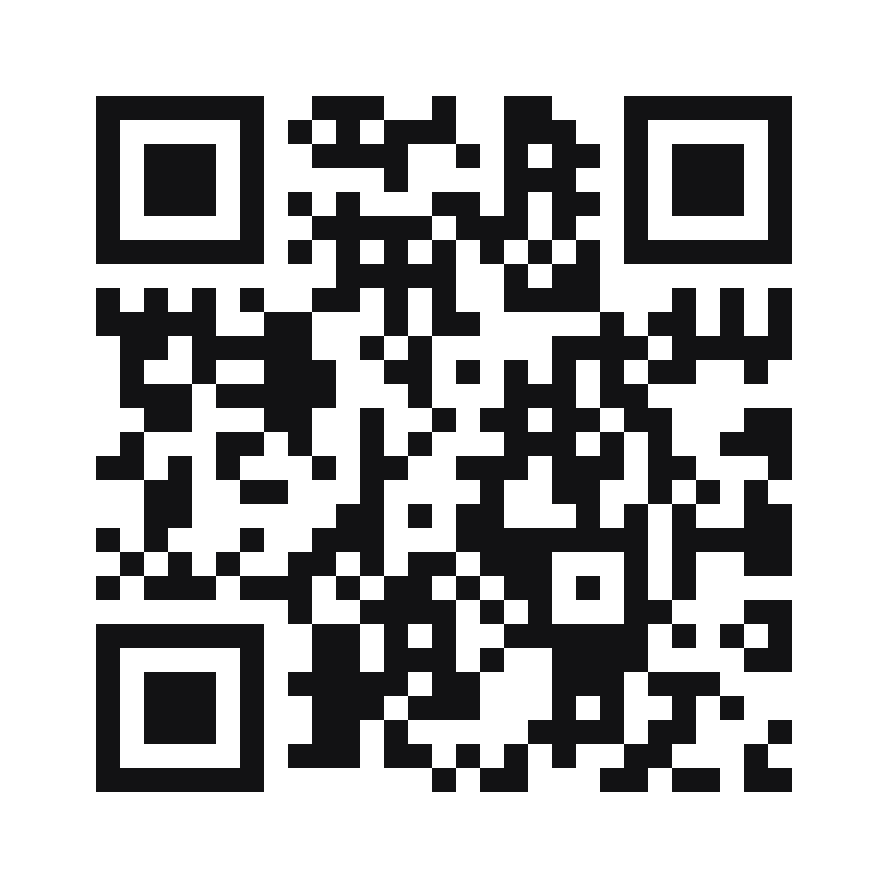
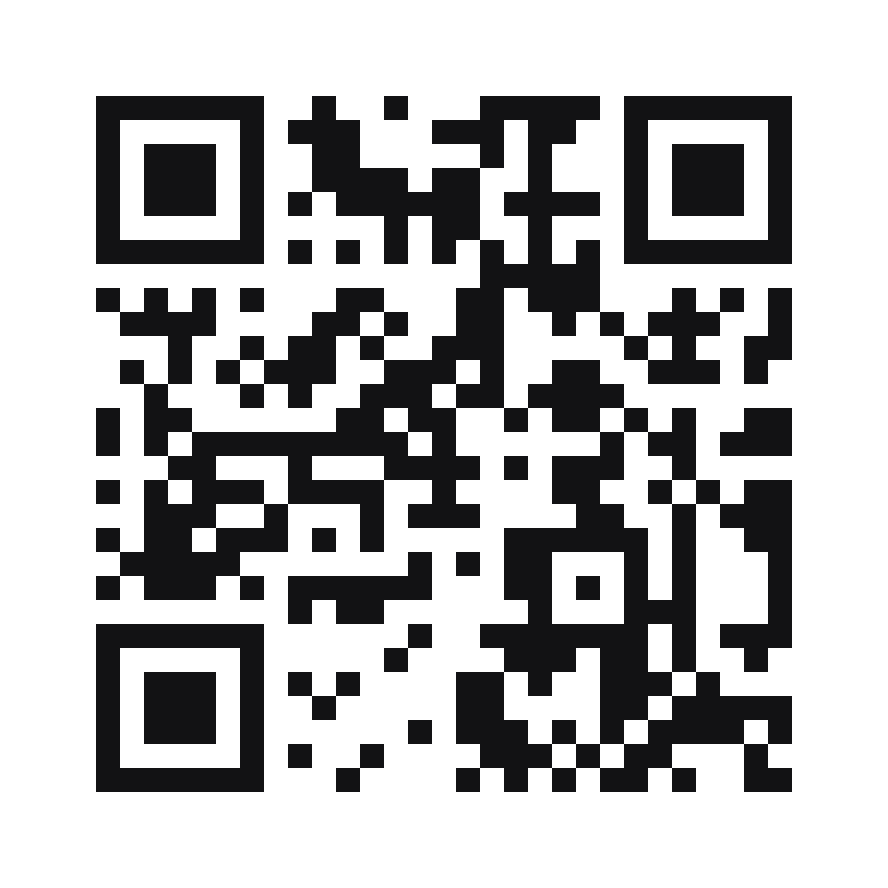
Update live menu URL and QR code for GitHub Pages

diff --git a/menu-data.js b/menu-data.js
@@ -12,7 +12,7 @@ window.__MENU_FALLBACK__ = {
       "ru": "KEBABO marinade — Отборное мясо, фирменный маринад и сочные шашлыки на живых углях.",
       "en": "KEBABO marinade — Prime cuts, signature marinades, and authentic charcoal-grilled kebabs."
     },
-    "menu_url": "https://kebabhouse.uz/menu",
+    "menu_url": "https://shaxboz1.github.io/project/",
     "phone": "+998 71 200 00 00",
     "phone_display": "+998 (71) 200-00-00",
     "address": {
